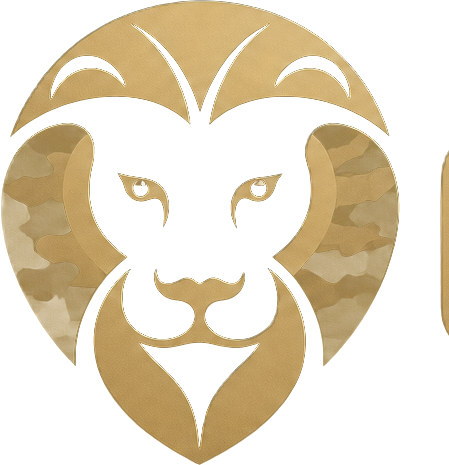
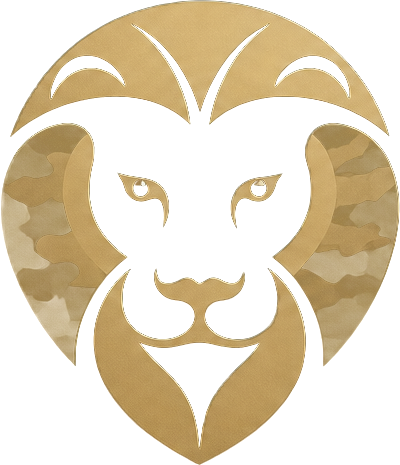
checkout 2 e melhorias gerais

diff --git a/index.html b/index.html
@@ -12,9 +12,87 @@
 
 <meta charset="UTF-8">
 <meta name="viewport" content="width=device-width, initial-scale=1.0">
-<title>OPERAÇÃO ALVORADA — A ASCENSÃO | 11ª EDIÇÃO | CPPEM</title>
+<!-- Título em caixa mista e com a data: o Google reescreve com frequência
+     títulos em CAIXA ALTA e cheios de separadores, e era o que acontecia aqui
+     (aparecia como "OPERAÇÃO ALVORADA – CPPEM Concursos Públicos"). -->
+<title>Operação Alvorada 11ª Edição — 26 e 27 de setembro | CPPEM</title>
 <meta name="description" content="26 e 27 de setembro, das 19h às 07h, na sede do CPPEM. Uma madrugada inteira de estudos para quem vai vestir a farda, com corridão às 05h do dia 27. Vagas limitadas a 250 cadeiras.">
-<link rel="icon" href="public/logo-cppem.png">
+<link rel="canonical" href="https://operacaoalvorada.cppem.com.br/">
+
+<!-- Favicon: o Google só aceita QUADRADO e com lado múltiplo de 48px. Enquanto
+     isto apontava para logo-cppem.png (700x239), ele descartava e mostrava o
+     globo cinza genérico no resultado de busca. -->
+<link rel="icon" href="public/favicon.ico" sizes="48x48">
+<link rel="icon" href="public/favicon-192.png" type="image/png" sizes="192x192">
+<link rel="apple-touch-icon" href="public/favicon-192.png">
+
+<!-- Open Graph: sem estas tags, WhatsApp e Instagram montam o preview por
+     conta própria — sem imagem e com o texto que encontrarem. É o formato em
+     que a maior parte deste tráfego chega. -->
+<meta property="og:type" content="website">
+<meta property="og:site_name" content="CPPEM Concursos Públicos">
+<meta property="og:locale" content="pt_BR">
+<meta property="og:url" content="https://operacaoalvorada.cppem.com.br/">
+<meta property="og:title" content="Operação Alvorada — 11ª edição | 26 e 27 de setembro">
+<meta property="og:description" content="Uma madrugada inteira de estudos, presencial, das 19h às 07h, com foco total em PMPE e PCPE. Corridão às 05h. Vagas limitadas.">
+<meta property="og:image" content="https://operacaoalvorada.cppem.com.br/public/og-alvorada.jpg">
+<meta property="og:image:width" content="1200">
+<meta property="og:image:height" content="630">
+<meta property="og:image:alt" content="Operação Alvorada — 11ª edição, 26 e 27 de setembro, 19h às 07h, na sede do CPPEM.">
+
+<meta name="twitter:card" content="summary_large_image">
+<meta name="twitter:title" content="Operação Alvorada — 11ª edição | 26 e 27 de setembro">
+<meta name="twitter:description" content="Uma madrugada inteira de estudos, presencial, das 19h às 07h, com foco total em PMPE e PCPE. Corridão às 05h.">
+<meta name="twitter:image" content="https://operacaoalvorada.cppem.com.br/public/og-alvorada.jpg">
+
+<!-- Dados estruturados de evento: é o que permite ao Google mostrar data,
+     local e faixa de preço direto no resultado. Os preços precisam bater com
+     os cards da seção #ingressos. -->
+<script type="application/ld+json">
+{
+  "@context": "https://schema.org",
+  "@type": "EducationEvent",
+  "name": "Operação Alvorada — 11ª edição · A Ascensão",
+  "description": "Madrugada inteira de estudos presencial, das 19h às 07h, com foco em PMPE e PCPE, encerrada pelo corridão às 05h.",
+  "startDate": "2026-09-26T19:00:00-03:00",
+  "endDate": "2026-09-27T07:00:00-03:00",
+  "eventStatus": "https://schema.org/EventScheduled",
+  "eventAttendanceMode": "https://schema.org/OfflineEventAttendanceMode",
+  "image": "https://operacaoalvorada.cppem.com.br/public/og-alvorada.jpg",
+  "url": "https://operacaoalvorada.cppem.com.br/",
+  "inLanguage": "pt-BR",
+  "maximumAttendeeCapacity": 250,
+  "location": {
+    "@type": "Place",
+    "name": "Sede CPPEM",
+    "address": { "@type": "PostalAddress", "addressLocality": "Recife", "addressRegion": "PE", "addressCountry": "BR" }
+  },
+  "organizer": {
+    "@type": "Organization",
+    "name": "CPPEM Concursos Públicos",
+    "url": "https://cppem.com.br"
+  },
+  "performer": { "@type": "Person", "name": "Prof. Everton Mota" },
+  "offers": [
+    {
+      "@type": "Offer",
+      "name": "Ingresso Padrão — 1º lote",
+      "price": "47.90",
+      "priceCurrency": "BRL",
+      "availability": "https://schema.org/InStock",
+      "url": "https://operacaoalvorada.cppem.com.br/#ingressos"
+    },
+    {
+      "@type": "Offer",
+      "name": "Ingresso VIP",
+      "price": "147.00",
+      "priceCurrency": "BRL",
+      "availability": "https://schema.org/InStock",
+      "url": "https://operacaoalvorada.cppem.com.br/#ingressos"
+    }
+  ]
+}
+</script>
 <link rel="preconnect" href="https://fonts.googleapis.com">
 <link rel="preconnect" href="https://fonts.gstatic.com" crossorigin>
 <link href="https://fonts.googleapis.com/css2?family=Oxanium:wght@400;500;600;700;800&family=Rajdhani:wght@400;500;600;700&display=swap" rel="stylesheet">
@@ -226,14 +304,14 @@
             <b><i>R$</i>147</b>
             <span class="plano__preco-nota">Apenas 50 pessoas</span>
           </div>
-          <!-- 🔴 PENDENTE: o checkout do VIP ainda NÃO existe. A URL abaixo é um
-               palpite que segue a convenção do ingresso padrão. NÃO PUBLICAR
-               antes de trocar pelo link real — comprador do VIP cairia num 404
-               depois de já ter deixado nome, e-mail e WhatsApp.
-               É o único lugar do projeto onde esse endereço aparece. -->
+          <!-- Produto "Operação Alvorada 11 especial", R$ 147,00 no checkout.
+               O slug é `-especial`, e não `-vip`: o checkout devolve HTTP 200
+               para qualquer caminho e só resolve a oferta no cliente, então um
+               slug errado não dá erro — mostra "Oferta não encontrada!" depois
+               de o comprador já ter deixado nome, e-mail e WhatsApp. -->
           <button class="btn btn--gold btn--lg btn--block shine js-open" type="button"
                   data-produto="Ingresso VIP"
-                  data-checkout="https://checkout.cppem.com.br/pay/op-alvorada-11-vip">
+                  data-checkout="https://checkout.cppem.com.br/pay/op-alvorada-11-especial">
             <span>Quero o VIP</span>
           </button>
         </div>

diff --git a/scripts/og-card.html b/scripts/og-card.html
@@ -1,0 +1,90 @@
+<!DOCTYPE html>
+<html lang="pt-BR">
+<head>
+<meta charset="UTF-8">
+<title>og-card</title>
+<!-- Fonte do og:image. Renderizado por scripts/gerar-social.py em 1200x630,
+     que é a proporção 1.91:1 pedida por WhatsApp, Facebook, LinkedIn e X.
+     Editar aqui e rodar o script regera public/og-alvorada.png. -->
+<link href="https://fonts.googleapis.com/css2?family=Oxanium:wght@600;700;800&family=Rajdhani:wght@600;700&display=swap" rel="stylesheet">
+<style>
+  *, *::before, *::after { box-sizing: border-box; margin: 0; padding: 0; }
+  body {
+    width: 1200px; height: 630px; overflow: hidden; position: relative;
+    background: #0A0A0B; color: #E8E4D9; font-family: 'Rajdhani', sans-serif;
+  }
+  .bg {
+    position: absolute; inset: 0;
+    background: url('../public/bgatirador.webp') center right / cover no-repeat;
+    transform: scaleX(-1); opacity: .5; filter: grayscale(.35) contrast(1.05);
+  }
+  .veu {
+    position: absolute; inset: 0;
+    background:
+      linear-gradient(90deg, rgba(10,10,11,.97) 0%, rgba(10,10,11,.9) 38%, rgba(10,10,11,.35) 70%, rgba(10,10,11,.7) 100%),
+      radial-gradient(ellipse at 20% 120%, rgba(175,146,86,.3), transparent 60%);
+  }
+  .borda { position: absolute; inset: 0; border-top: 6px solid #AF9256; }
+  .conteudo { position: relative; z-index: 2; padding: 64px 70px; height: 100%; display: flex; flex-direction: column; }
+
+  /* align-self obrigatório: .conteudo é flex em coluna, e o align-items:stretch
+     padrão esticaria a imagem até a largura toda, achatando o logo. */
+  .logo { align-self: flex-start; height: 62px; width: auto; margin-bottom: 40px; }
+
+  .tag {
+    display: inline-flex; align-items: center; gap: 10px; align-self: flex-start;
+    padding: 9px 18px; margin-bottom: 26px;
+    background: rgba(175,146,86,.12); box-shadow: inset 0 0 0 1px rgba(175,146,86,.55);
+    clip-path: polygon(0 0, calc(100% - 10px) 0, 100% 10px, 100% 100%, 10px 100%, 0 calc(100% - 10px));
+    font-size: 15px; font-weight: 700; letter-spacing: 3px; text-transform: uppercase; color: #C9AE7A;
+  }
+  .tag i { width: 8px; height: 8px; border-radius: 50%; background: #AF9256; }
+
+  h1 {
+    font-family: 'Oxanium', sans-serif; font-size: 74px; font-weight: 800;
+    line-height: .96; letter-spacing: -.5px; text-transform: uppercase;
+    text-shadow: 0 8px 40px rgba(0,0,0,.8); max-width: 15ch;
+  }
+  h1 span {
+    background: linear-gradient(180deg, #F0DCB0, #AF9256 55%, #8A7040);
+    -webkit-background-clip: text; background-clip: text; color: transparent;
+  }
+
+  .ficha { margin-top: auto; display: flex; gap: 14px; }
+  .ficha div {
+    padding: 14px 20px;
+    background: linear-gradient(180deg, rgba(24,24,30,.85), rgba(12,12,15,.9));
+    box-shadow: inset 0 0 0 1px rgba(175,146,86,.28);
+    clip-path: polygon(0 0, calc(100% - 12px) 0, 100% 12px, 100% 100%, 12px 100%, 0 calc(100% - 12px));
+  }
+  .ficha span {
+    display: block; font-size: 12px; font-weight: 700; letter-spacing: 2.6px;
+    text-transform: uppercase; color: #87847A; margin-bottom: 4px;
+  }
+  .ficha b {
+    display: block; font-family: 'Oxanium', sans-serif; font-size: 20px;
+    font-weight: 700; color: #C9AE7A; letter-spacing: .4px;
+  }
+</style>
+</head>
+<body>
+  <div class="bg"></div>
+  <div class="veu"></div>
+  <div class="borda"></div>
+
+  <div class="conteudo">
+    <img class="logo" src="../public/logo-cppem.png" alt="CPPEM">
+
+    <span class="tag"><i></i> 11ª edição · A Ascensão</span>
+
+    <h1>Enquanto a cidade dorme,<br>você conquista a <span>farda</span>.</h1>
+
+    <div class="ficha">
+      <div><span>Data</span><b>26 e 27 de setembro</b></div>
+      <div><span>Horário</span><b>19h00 às 07h00</b></div>
+      <div><span>Local</span><b>Sede CPPEM</b></div>
+      <div><span>Foco</span><b>PMPE e PCPE</b></div>
+    </div>
+  </div>
+</body>
+</html>

diff --git a/scripts/gerar-social.py b/scripts/gerar-social.py
@@ -1,0 +1,88 @@
+"""
+Gera os ativos de compartilhamento e o favicon.
+
+FAVICON — por que quadrado
+    O favicon apontava para `logo-cppem.png`, que é 700x239 (proporção 2.9:1).
+    O Google exige um favicon QUADRADO e com lado múltiplo de 48px; fora disso
+    ele descarta e mostra o globo cinza genérico no resultado de busca. Era
+    exatamente o que estava acontecendo.
+
+    O leão sai sobre o preto da marca em vez de transparente: em resultado de
+    busca com tema claro, ouro sobre branco quase some.
+
+CARTÃO SOCIAL — por que via navegador
+    O og:image é montado a partir de scripts/og-card.html, renderizado pelo
+    Chrome, e não desenhado aqui com PIL. O motivo é a tipografia: o card usa
+    Oxanium e Rajdhani, as fontes da marca, que o navegador busca do Google
+    Fonts. Desenhar com PIL exigiria os arquivos .ttf e ainda assim erraria
+    kerning e o degradê do ouro.
+
+Uso:  python scripts/gerar-social.py
+"""
+
+import subprocess
+from pathlib import Path
+
+from PIL import Image
+
+RAIZ = Path(__file__).resolve().parent.parent
+PUBLIC = RAIZ / "public"
+
+FUNDO = (10, 10, 11)          # --bg do site
+TAMANHOS = [48, 96, 192, 512]  # múltiplos de 48, como o Google pede
+MARGEM = 0.12                  # respiro em volta do leão, em fração do lado
+
+CHROME = Path(r"C:\Program Files\Google\Chrome\Application\chrome.exe")
+
+
+def favicons() -> None:
+    leao = Image.open(PUBLIC / "emblema-leao.png").convert("RGBA")
+
+    for lado in TAMANHOS:
+        util = round(lado * (1 - 2 * MARGEM))
+        escala = min(util / leao.width, util / leao.height)
+        arte = leao.resize(
+            (max(1, round(leao.width * escala)), max(1, round(leao.height * escala))),
+            Image.LANCZOS,
+        )
+
+        tela = Image.new("RGBA", (lado, lado), FUNDO + (255,))
+        tela.alpha_composite(arte, ((lado - arte.width) // 2, (lado - arte.height) // 2))
+        tela.convert("RGB").save(PUBLIC / f"favicon-{lado}.png")
+        print(f"  favicon-{lado}.png")
+
+    # .ico com as resoluções pequenas, para navegadores e abas antigas
+    base = Image.open(PUBLIC / "favicon-512.png")
+    base.save(PUBLIC / "favicon.ico", sizes=[(16, 16), (32, 32), (48, 48)])
+    print("  favicon.ico")
+
+
+def cartao_social() -> None:
+    origem = (RAIZ / "scripts" / "og-card.html").resolve()
+    bruto = PUBLIC / "_og-bruto.png"
+    destino = PUBLIC / "og-alvorada.jpg"
+
+    if not CHROME.exists():
+        print(f"  ! Chrome não encontrado em {CHROME}; og:image não regerado")
+        return
+
+    subprocess.run(
+        [
+            str(CHROME), "--headless=new", "--disable-gpu", "--hide-scrollbars",
+            "--window-size=1200,630", "--virtual-time-budget=6000",
+            f"--screenshot={bruto}", origem.as_uri(),
+        ],
+        check=True, capture_output=True,
+    )
+
+    # JPEG, e não o PNG do screenshot: a foto de fundo é degradê e ruído, onde o
+    # PNG fica em ~420 KB. As redes buscam este arquivo a cada compartilhamento,
+    # e todas aceitam JPEG — WebP nem todas.
+    Image.open(bruto).convert("RGB").save(destino, "JPEG", quality=88, optimize=True, progressive=True)
+    bruto.unlink()
+    print(f"  og-alvorada.jpg ({destino.stat().st_size // 1024} KB)")
+
+
+if __name__ == "__main__":
+    favicons()
+    cartao_social()

diff --git a/scripts/logo-alpha.py b/scripts/logo-alpha.py
@@ -60,7 +60,17 @@ def main() -> None:
 
     # O leão sai ANTES do downscale: ele vira marca d'água de 620px de altura,
     # e recortá-lo da versão já reduzida entregaria um emblema borrado.
-    leao = out.crop((0, 0, int(out.width * 0.33), out.height))
+    #
+    # O corte procura o VÃO real entre o leão e o "C" de CPPEM — a primeira
+    # coluna totalmente transparente depois do emblema. Cortar numa fração fixa
+    # da largura (era 33%) deixava passar uma lasca do "C", que aparecia como um
+    # risco vertical no favicon.
+    alfa_col = np.asarray(out)[:, :, 3].max(axis=0)
+    vazias = np.flatnonzero(alfa_col == 0)
+    limite = int(out.width * 0.40)          # o leão nunca passa disso
+    corte = next((int(x) for x in vazias if x < limite), limite)
+
+    leao = out.crop((0, 0, corte, out.height))
     caixa_leao = leao.getbbox()
     if caixa_leao:
         leao = leao.crop(caixa_leao)
